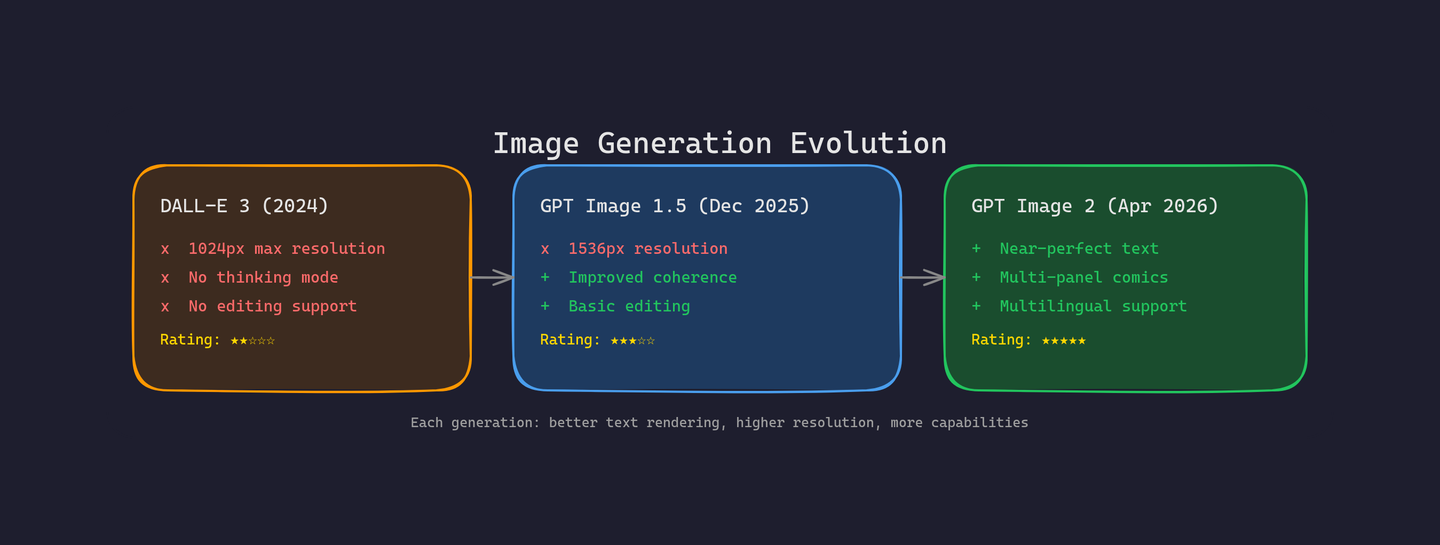
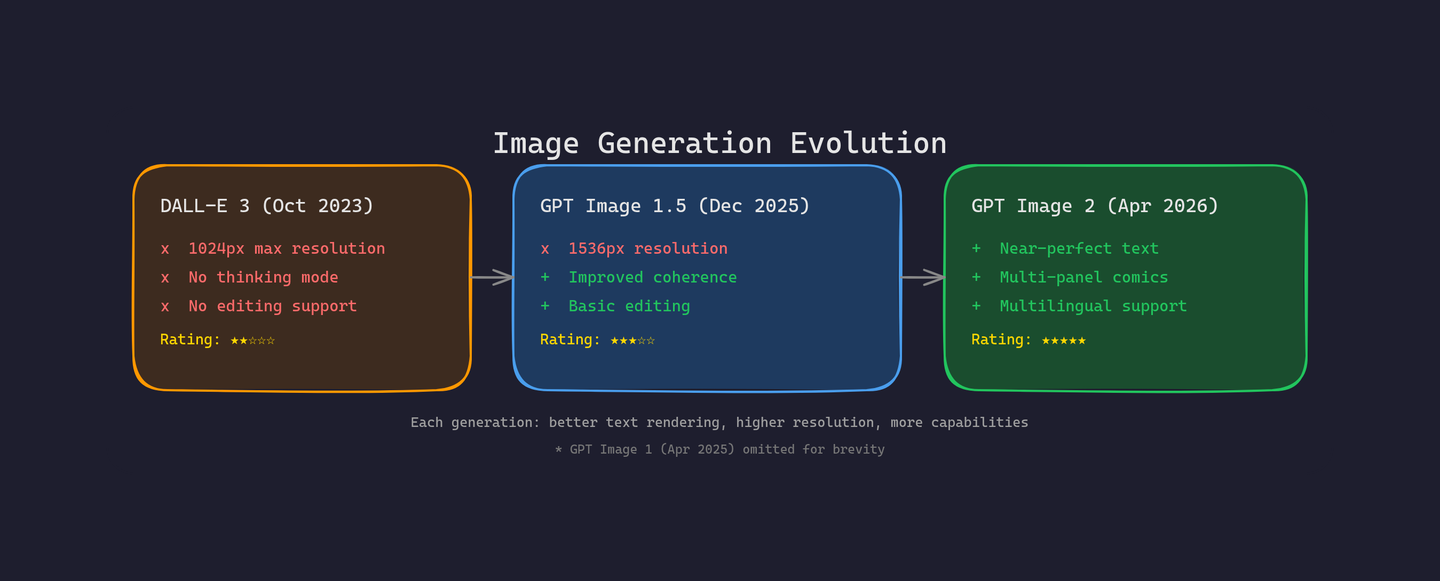
Fix: diagram factual errors + 48h consistency
- timeline.png: Privacy Filter dot Apr 23 → Apr 22
- timeline.png: subtitle 72 hours → 48 hours
- image-evolution.png: DALL-E 3 (2024) → DALL-E 3 (Oct 2023)
- image-evolution.png: added GPT Image 1 footnote
- index.html: intro 72 hours → 48 hours

Changed region(s): [[0.0938, 0.2183, 0.9062, 0.7798], [0.625, 0.4679, 0.6562, 0.5303]]

diff --git a/articles/genai-20260423-openai-pii-images-agents/index.html b/articles/genai-20260423-openai-pii-images-agents/index.html
@@ -46,7 +46,7 @@ hr { border: none; border-top: 1px solid #1f2937; margin: 2.5rem 0; }
     <h1>OpenAI's Biggest Week: Privacy Filter, Images 2.0, and Workspace Agents</h1>
     <div class="meta">April 23, 2026 · 8 min read · AI / Privacy / Image Generation / Agents</div>
 
-    <p>In the span of 72 hours this week, OpenAI dropped three major releases that touch completely different parts of the AI stack: a privacy model for enterprises, a next-gen image generator, and a full agent platform for teams. Together, they signal where OpenAI is heading — not just better chatbots, but a platform that handles your data safely, generates production-ready visuals, and automates your actual workflows.</p>
+    <p>In the span of 48 hours this week, OpenAI dropped three major releases that touch completely different parts of the AI stack: a privacy model for enterprises, a next-gen image generator, and a full agent platform for teams. Together, they signal where OpenAI is heading — not just better chatbots, but a platform that handles your data safely, generates production-ready visuals, and automates your actual workflows.</p>
 
     <div class="img-container">
         <img src="https://vinoth12940.github.io/blog/articles/genai-20260423-openai-pii-images-agents/images/timeline.png" alt="Timeline of OpenAI's three April 2026 releases">
